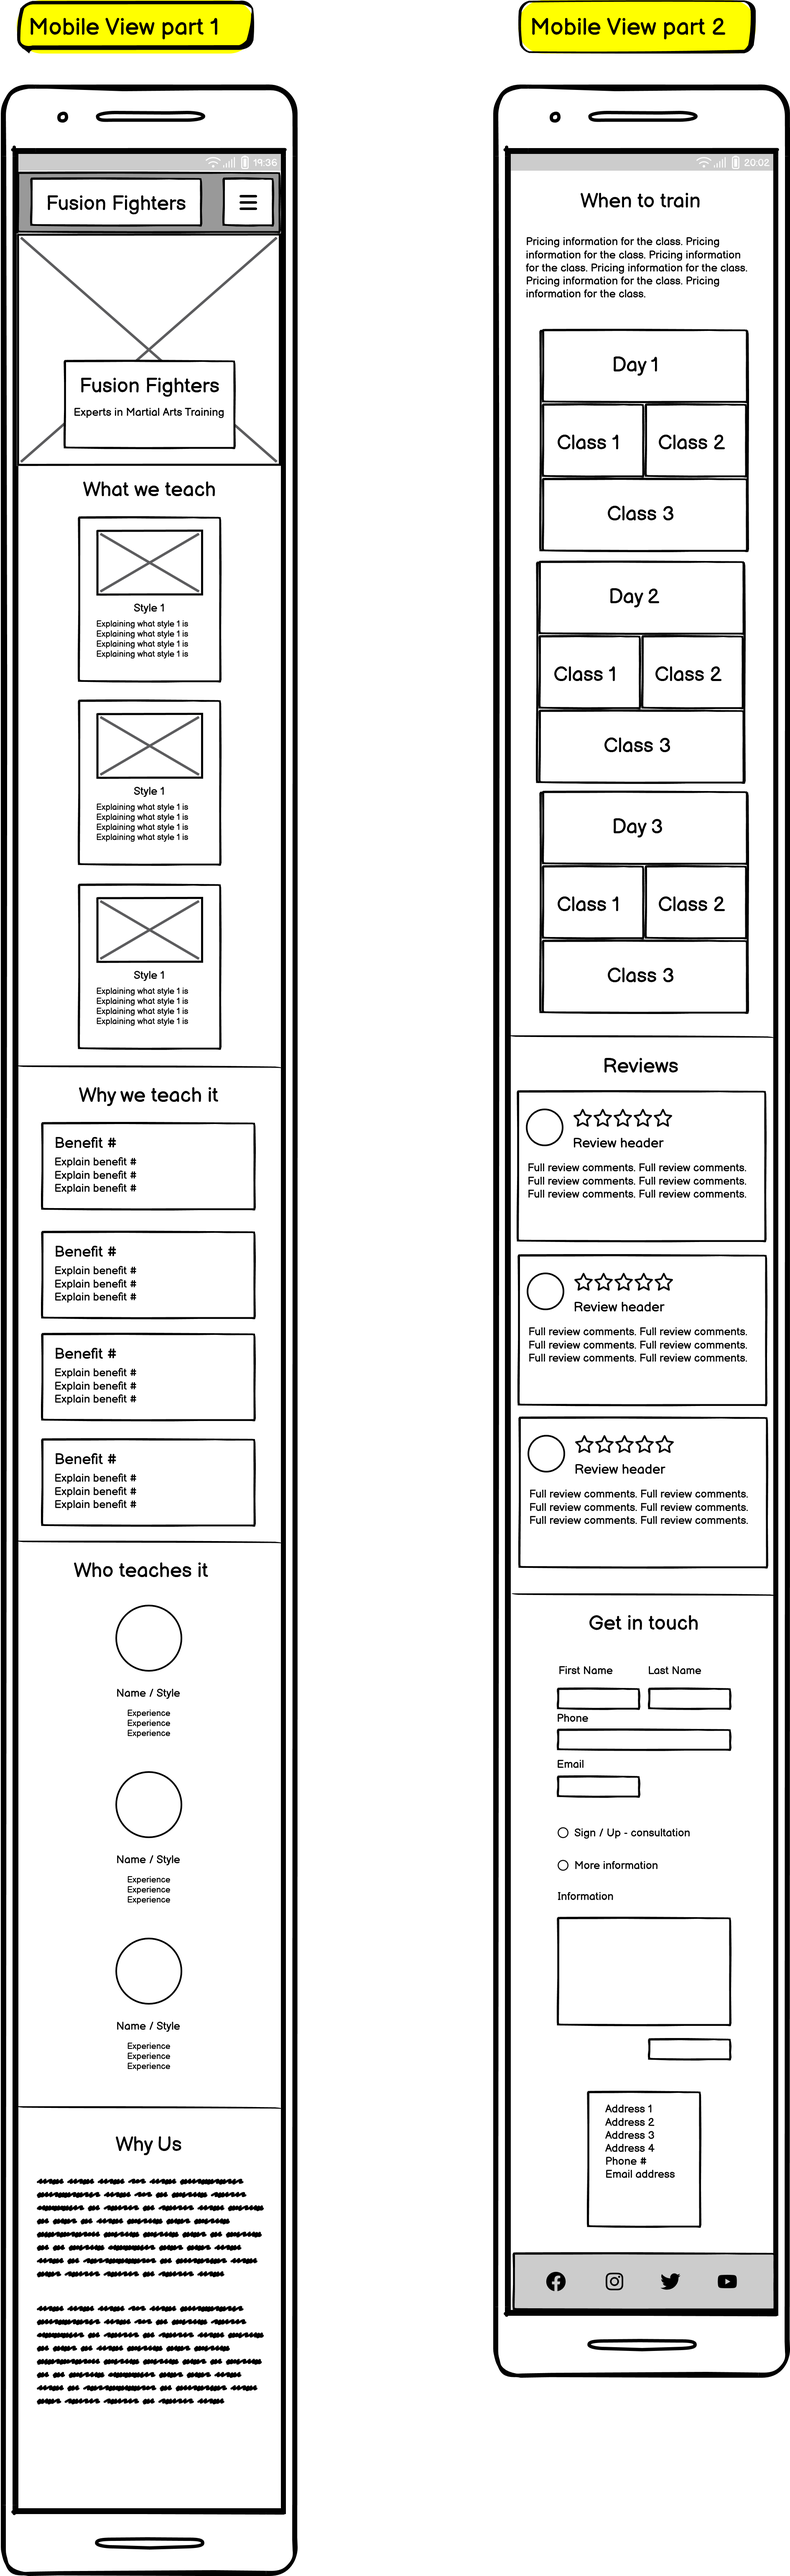
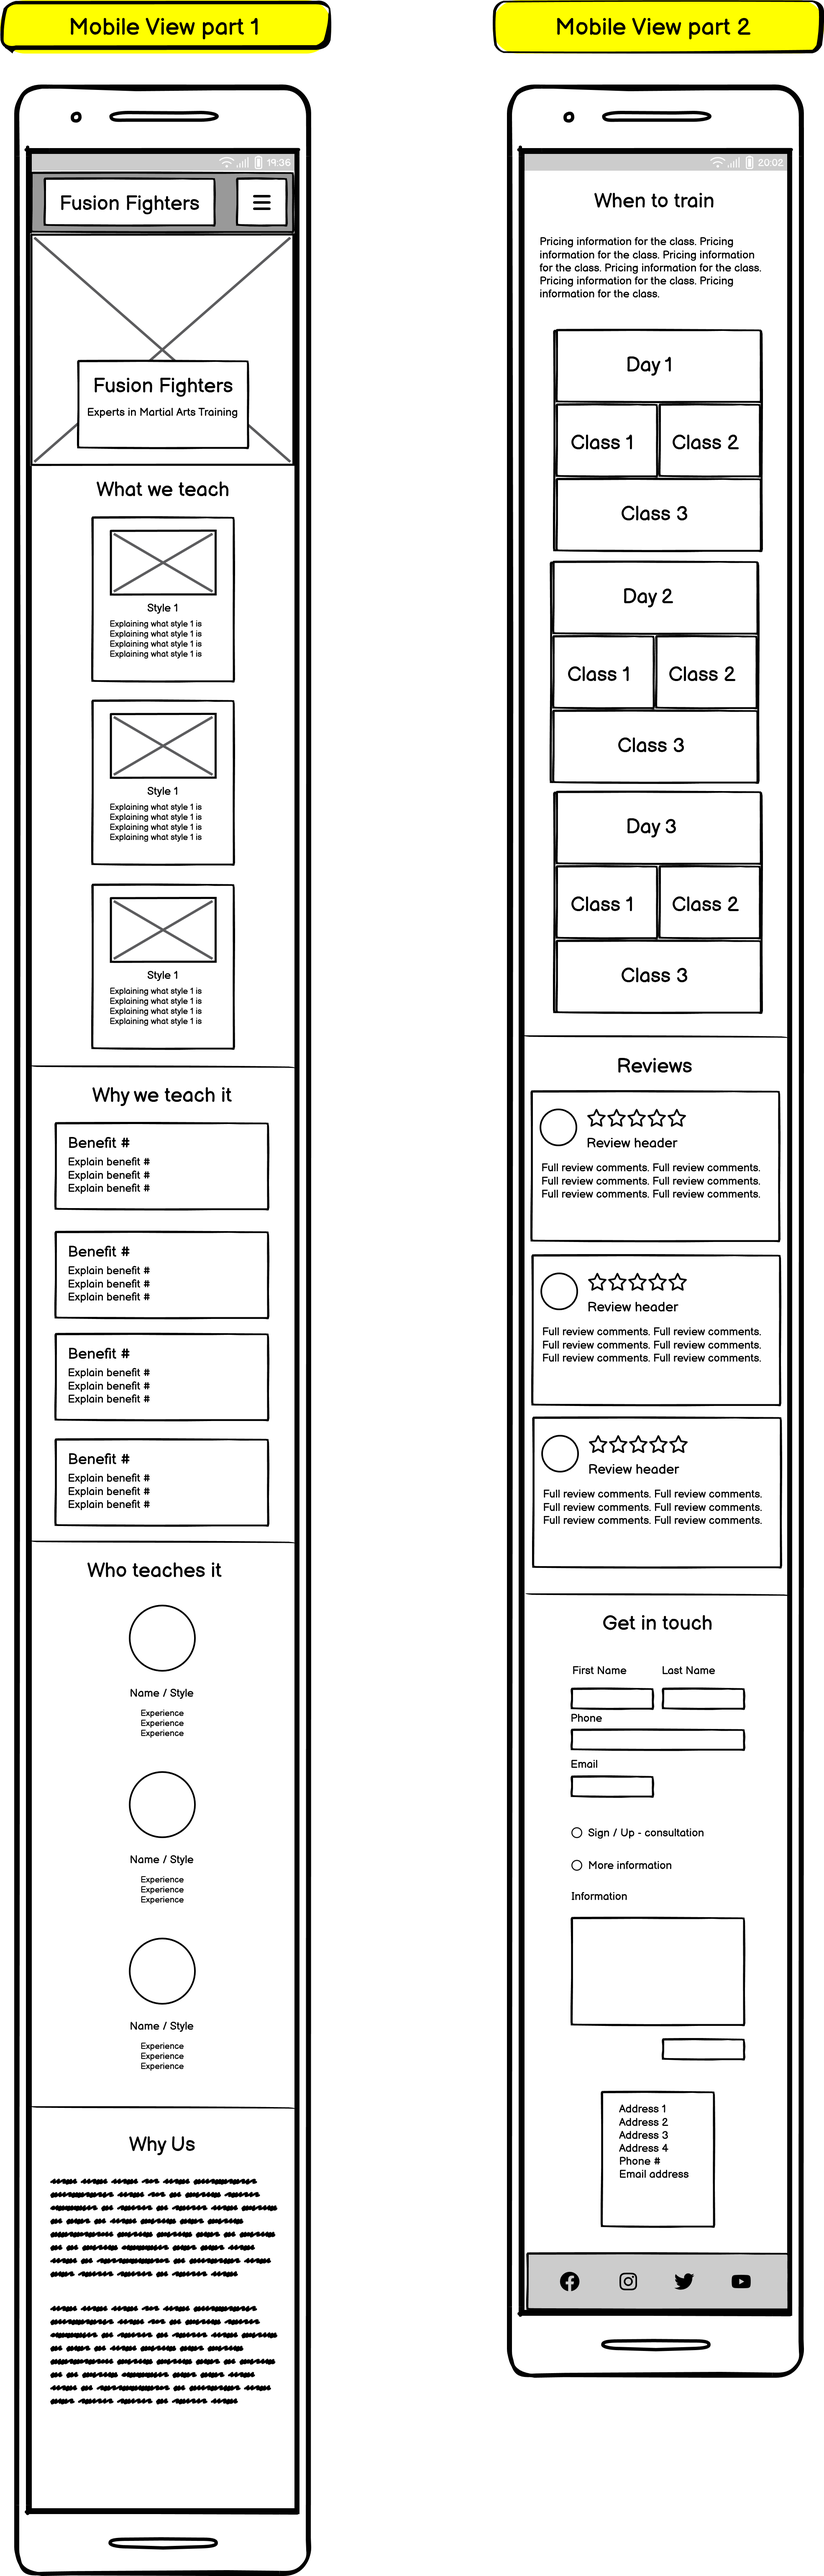
edited mobile wireframe image size and added desktop wireframe image. Updated readme.md

diff --git a/README.md b/README.md
@@ -75,7 +75,8 @@ As the owner of the website I want it to be accessible
 
 ### Wire-frames
 
-[Mobile Wireframes](assets/readme/mobile-wireframe.png)
+[Mobile Wireframe](assets/readme/mobile-wireframe.png)
+[Desktop Wireframe](assets/readme/desktop-wireframe.png)
 
 ## Surface
 
